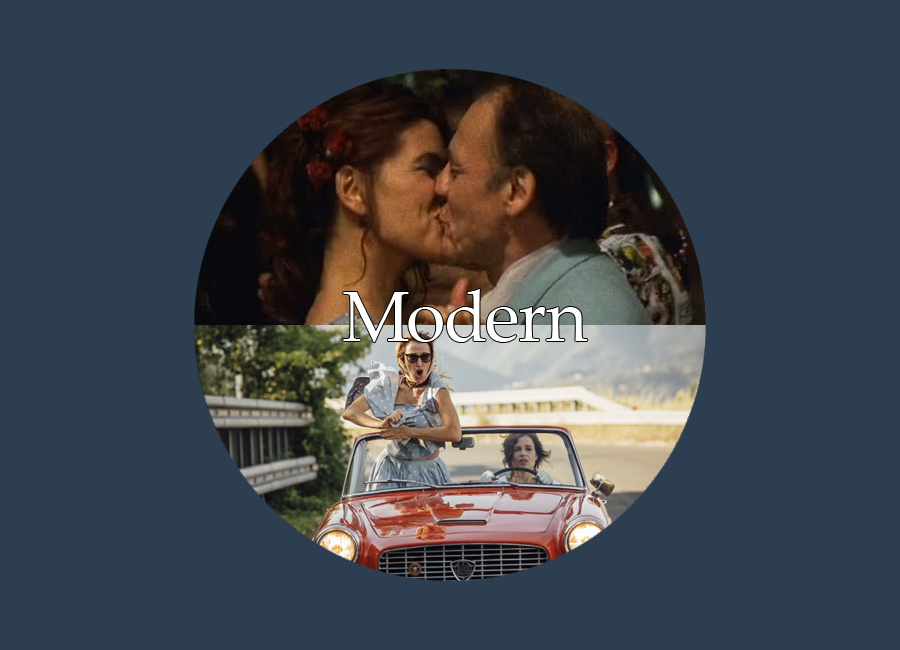
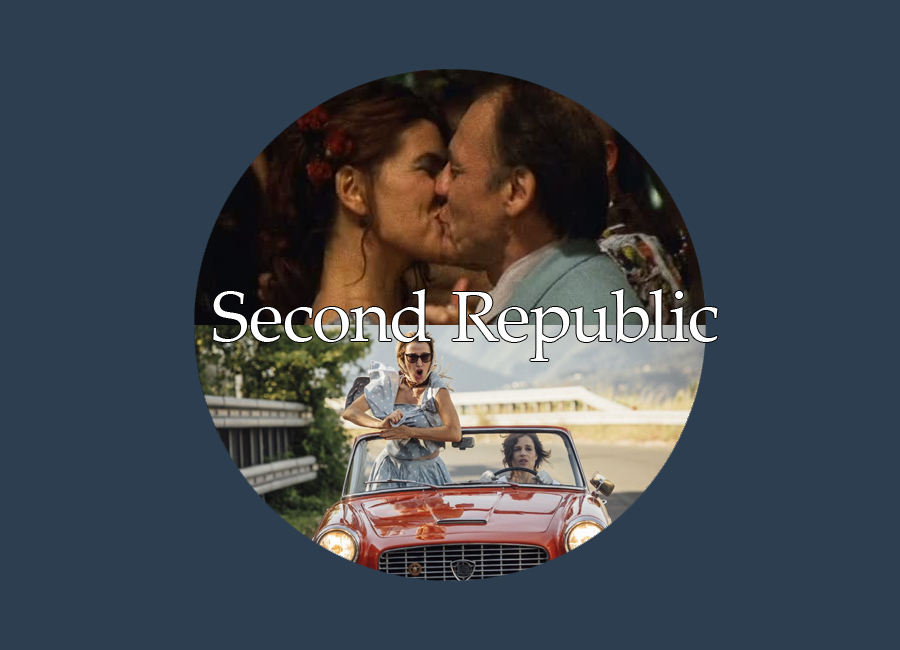
Working on the finals days of my project

Changed region(s): [[0.2178, 0.4308, 0.8089, 0.5538]]

diff --git a/preRepublic.html b/preRepublic.html
@@ -58,10 +58,10 @@
     <!-- Header -->
     <header class="masthead bg-primary text-white text-center">
       <div class="container">
-          <h1 class="text-uppercase mb-0">UNIFICATION OF ITALY (1860) THROUGH FASCISM</h1>
+          <h1 class="text-uppercase mb-0">UNIFICATION OF ITALY (1860) TO FASCISM</h1>
         <img class="img-fluid mb-5 d-block mx-auto" src="img/preRepublic.png" alt="">
         <h2 class="font-weight-light mb-0">This follows the journey into Italy from the unification right up to the middle of the war.</h2>
-        <h2 class="font-weight-light mb-0"></h2>
+        <h3 class="font-weight-light mb-0"></h3>
       </div>
     </header>
         
@@ -85,13 +85,13 @@
           In the late 1940s, much of Italy wanted independence from the surrounding countries such as Austria, France, and Spain. 
           Much of Italy was extremely fragmented after the congress at Vienna in 1815. 
           Specifically, this film focuses on how Sicily becomes a part of Italian unification. Giuseppe Garibaldi was the main character in adding Sicily to the Kingdom of 
-          Sardenia thus making it a part of Italy in 1861. The unification concluded with the additions of Venice and Rome.
+          Sardinia thus making it a part of Italy in 1861. The unification concluded with the additions of Venice and Rome.
           <hr />
           <h3>Ballroom/Waltz</h3>
           Ballroom is one of the most iconic dance styles out there. <em>Brunetta</em> states the scene in the Leopard is considered one of the most grandiose scenes in Italian film and cinema. 
           It immediately immerses the viewer into the time period with both costume and dance. The short clip above shows the ballroom scene at the end of the film in which Angelica 
           dances with the Prince. The ballroom style of dance itself is very elegant, grandiose, and immersive.
-          It, itself, is considered one of the greatest of the social dance types. Thw waltz was considered scandalous in te 19th century before becoming widely accepted and 
+          It, itself, is considered one of the greatest of the social dance types. The waltz was considered scandalous in the 19th century before becoming widely accepted and 
           popular. It was a spirit of both excitement and embraced romance <em>(Powers)</em>.
       </div>
     </section>
@@ -108,8 +108,8 @@
           </div>
           <hr />
           <h3>Historical Context</h3>
-          This film was created in the midst of fascism and the resistence war of Italy. Many factors were going against the stronghold Mussolini had on current Italian society. The Allies, Communists, and Christian Democrats 
-          all had an influence on Italy and hoped for the minimalization of fascist forces on the people. The peopel themselves were resisting the power favoring communism and frankly anything other 
+          This film was created in the midst of fascism and the resistance war of Italy. Many factors were going against the stronghold Mussolini had on current Italian society. The Allies, Communists, and Christian Democrats 
+          all had an influence on Italy and hoped for the minimization of fascist forces on the people. The people themselves were resisting the power favoring communism and frankly anything other 
           than what Mussolini provided (Ginsborg).
       </div>
     </section>
@@ -127,7 +127,7 @@
                 <em>A Special Day</em> is a film that takes place in the middle of the fascist regime. This is a film of both 
                 finding passion and looking at the normalcies around us and challenging ideas around us. The film follows 
                 Antonietta and Gabriele on the day Hitler visits Italy in 1938. Both stay home for different reasons but 
-                bond over their internal defiance for fascist beliefs. Gabirele challenges Antonietta's beliefs that all 
+                bond over their internal defiance for fascist beliefs. Gabriele challenges Antonietta's beliefs that all 
                 she could do was be a housewife and in the end of the film, she decides she wants more than the fascist life 
                 that is expected of her. Originally she had no problems with it, but quickly sees the life she can have by being 
                 with Gabriele who himself was a defiance to fascism because of his sexuality. 
@@ -137,7 +137,7 @@
                 Gabriele has footsteps on the floor to help with the general motions of the dance. The Rumba itself is not native to 
                 Italy. It is native to Cuba and is from the mid 19th century. The origins of the dance come from the people of Cuba wanting 
                 to defy and protest the slavery in the country at the time according to <em>Ingber</em> from the Smithsonian. This in itself 
-                is interesting because of the correlation to this piece of history to the film. Both groups wanted their freedom from the opression
+                is interesting because of the correlation to this piece of history to the film. Both groups wanted their freedom from the oppression
                 they were facing. <em>Lee, Rivera, & Won</em> stated in their school project that the <em>Rumba</em> was often paired with 
                 sexuality and called in the US "the woman's dance." It seems interesting that of all the dances the director could have chosen, 
                 this dance was an interesting choice due to its ties to both sexuality and freedom. 
@@ -153,11 +153,11 @@
               Your browser does not support HTML5 video.
             </video>
         </div>
-            While this film was technically during the First Republic, many aspects of this film relate to neorealistic themes 
+            While this film was technically during the First Republic, many aspects of this film relate to Neorealistic themes 
             found typically during the era right before the republic.
             This film is an iconic piece of Neorealism and of how Italy itself was on the verge of a change. This film specifically 
             represents the change in both women and society itself.
-            <em>Bitter Rice</em> is a film that takes place in Torino during the months were the women would work the rice fields 
+            <em>Bitter Rice</em> is a film that takes place in Northern Italy during the months were the women would work the rice fields 
             right after the war. The film shows the journey of Francesca 
             trying to hide herself from the law that is after her lover, Walter. Along the way she meets Silvana who becomes 
             captivated by Francesca's life of adventure before Walter seduces Silvana 
@@ -165,7 +165,7 @@
             <h3>Boogie-Woogie</h3>
             In <em>Mass Culture and Italian Society from Fascism to the Cold War (2007)</em> by Forgacs and Gundle talks about how the <strong>boogie-woogie</strong> itself shook up old Italian customs.
             While partnering dances were always popular in Italy, there was nothing quite like the <strong>boogie-woogie</strong>, as seen by Silvana in the film and in the video to the left.
-            This was because traditional dancing often was very structured and did not have as much hip shaking which was often considered scandelous. 
+            This was because traditional dancing often was very structured and did not have as much hip shaking which was often considered scandalous. 
             In a way, <em>Bitter Rice</em> embodied this change and showed how women were becoming more independent from Italy's fascist past. This dance itself is iconic to this change and iconic for the
             film. Silvana in this scene embodies both the changes in women and even American influence in Italy. 
             

diff --git a/modern.html b/modern.html
@@ -75,10 +75,11 @@
                   Your browser does not support HTML5 video.
               </video>
           </div>
-                Lorem ipsum dolor sit amet, consectetur adipiscing elit. Donec suscipit orci non nulla pellentesque, gravida ornare arcu scelerisque. Pellentesque facilisis tincidunt dolor, nec imperdiet orci ullamcorper gravida. In hac habitasse platea dictumst. Mauris nisl risus, consectetur eu dolor sit amet, suscipit maximus est. Sed porta auctor laoreet. Sed eget magna eget mi facilisis placerat. Ut pellentesque imperdiet imperdiet. Sed ac odio elit. Nullam ac bibendum ipsum. In iaculis dapibus sem, nec sodales neque ultrices eget. Phasellus gravida mi sed enim vestibulum, eget tristique elit scelerisque. Aenean commodo magna orci, quis efficitur leo facilisis sit amet. Ut a vestibulum orci. Donec pretium enim sit amet quam porta, vitae convallis est mollis.
-                Maecenas ornare, risus ac efficitur scelerisque, nunc ex tempus ante, non commodo diam eros ac neque. Praesent quis tortor fermentum, accumsan mauris eu, volutpat ligula. Maecenas non convallis tortor, et dictum massa. Mauris purus dui, pharetra sed porta ac, hendrerit eu augue. Quisque tellus orci, commodo vel faucibus non, pulvinar non neque. Mauris mollis elit vitae mauris finibus, ac mattis metus rutrum. Mauris eu rhoncus lectus, tincidunt vulputate massa. Integer lacinia lorem id augue tempor, nec tristique urna sollicitudin. Morbi pulvinar, metus a vestibulum rhoncus, turpis leo tristique enim, ut hendrerit justo arcu eget tellus. Suspendisse sed luctus nunc. Pellentesque ullamcorper imperdiet dolor a efficitur. Ut suscipit cursus erat, vitae pretium augue porta a. Fusce id mi sed elit hendrerit vestibulum. Nulla ultricies vehicula varius. Cras ut purus eu magna semper pulvinar. Cras tempor gravida neque, quis porta dui.
-                <h3></h3>
-                Nulla tempor sodales nisi maximus molestie. Quisque eget nisl maximus, hendrerit felis sit amet, vestibulum erat. Quisque pulvinar est vitae ligula ornare, nec suscipit ipsum ullamcorper. Fusce in ullamcorper lorem. Pellentesque porttitor sem eu purus feugiat, condimentum egestas turpis accumsan. Lorem ipsum dolor sit amet, consectetur adipiscing elit. Integer consectetur, neque quis commodo congue, erat ex bibendum nulla, eget imperdiet purus erat vitae libero. Morbi fermentum, odio eu posuere commodo, sem sem tempor justo, ut blandit nulla orci ac quam. In vel lacinia dui, sed consequat ex. Class aptent taciti sociosqu ad litora torquent per conubia nostra, per inceptos himenaeos. In venenatis malesuada ex, sed molestie quam ullamcorper aliquet.    
+                <h3>Historical Context</h3>
+                Italy's second republic started in 1992 and goes up until today. Much of the changes had to do with the people changing and the ideas. People were done with 
+                the corruptions of the last system and were hoping for a system that was more in line with their ideas. Many of the parties were dissolved and new ones were created. 
+                Women were also becoming more independent. This film had many elements of that and showed with Rosa how she was able to live by herself, get a job, and live independently from 
+                her husband with little issue. 
       </div>
     </section>
 
@@ -93,7 +94,7 @@
             </video>
         </div>
         <h3>Punk Dancing</h3>
-        From the 1980s to the early 2000s, Punk music and danced seemed to inflitrate Europe and Italy in a very impactful way. <em>Punk dancing</em> is hard to categorize. It is usually just a person “moshing” and often happens in a group. Often these moshes involve people who jump up 
+        From the 1980s to the early 2000s, Punk music and danced seemed to infiltrate Europe and Italy in a very impactful way. <em>Punk dancing</em> is hard to categorize. It is usually just a person “moshing” and often happens in a group. Often these moshes involve people who jump up 
         and down and ram their shoulders into each other. This is seen in this film seen in the above video clip with Matteo as he is dancing around his room and finishes his dance by ramming into 
         his door. 
       </div>
@@ -109,8 +110,6 @@
               </video>
           </div>
                 Lorem ipsum dolor sit amet, consectetur adipiscing elit. Donec suscipit orci non nulla pellentesque, gravida ornare arcu scelerisque. Pellentesque facilisis tincidunt dolor, nec imperdiet orci ullamcorper gravida. In hac habitasse platea dictumst. Mauris nisl risus, consectetur eu dolor sit amet, suscipit maximus est. Sed porta auctor laoreet. Sed eget magna eget mi facilisis placerat. Ut pellentesque imperdiet imperdiet. Sed ac odio elit. Nullam ac bibendum ipsum. In iaculis dapibus sem, nec sodales neque ultrices eget. Phasellus gravida mi sed enim vestibulum, eget tristique elit scelerisque. Aenean commodo magna orci, quis efficitur leo facilisis sit amet. Ut a vestibulum orci. Donec pretium enim sit amet quam porta, vitae convallis est mollis.
-                Maecenas ornare, risus ac efficitur scelerisque, nunc ex tempus ante, non commodo diam eros ac neque. Praesent quis tortor fermentum, accumsan mauris eu, volutpat ligula. Maecenas non convallis tortor, et dictum massa. Mauris purus dui, pharetra sed porta ac, hendrerit eu augue. Quisque tellus orci, commodo vel faucibus non, pulvinar non neque. Mauris mollis elit vitae mauris finibus, ac mattis metus rutrum. Mauris eu rhoncus lectus, tincidunt vulputate massa. Integer lacinia lorem id augue tempor, nec tristique urna sollicitudin. Morbi pulvinar, metus a vestibulum rhoncus, turpis leo tristique enim, ut hendrerit justo arcu eget tellus. Suspendisse sed luctus nunc. Pellentesque ullamcorper imperdiet dolor a efficitur. Ut suscipit cursus erat, vitae pretium augue porta a. Fusce id mi sed elit hendrerit vestibulum. Nulla ultricies vehicula varius. Cras ut purus eu magna semper pulvinar. Cras tempor gravida neque, quis porta dui.
-                Nulla tempor sodales nisi maximus molestie. Quisque eget nisl maximus, hendrerit felis sit amet, vestibulum erat. Quisque pulvinar est vitae ligula ornare, nec suscipit ipsum ullamcorper. Fusce in ullamcorper lorem. Pellentesque porttitor sem eu purus feugiat, condimentum egestas turpis accumsan. Lorem ipsum dolor sit amet, consectetur adipiscing elit. Integer consectetur, neque quis commodo congue, erat ex bibendum nulla, eget imperdiet purus erat vitae libero. Morbi fermentum, odio eu posuere commodo, sem sem tempor justo, ut blandit nulla orci ac quam. In vel lacinia dui, sed consequat ex. Class aptent taciti sociosqu ad litora torquent per conubia nostra, per inceptos himenaeos. In venenatis malesuada ex, sed molestie quam ullamcorper aliquet.    
       </div>
     </section>
 
@@ -127,7 +126,9 @@
         <h3>Discoteca (Club)</h3>
           This film features a scene from a club that gives us a peak into the electronic dance scene of Italy that is currently captivating many. 
           The punk scene of Italy seemed to flow easily into an electronic club scene that many people enjoyed. The scene in Italy is not as big as London’s electronic scene. 
-          Italy, itself, has a very different type of scene  
+          Italy, itself, has a very different type of scene than most electronic scenes around the world. The Italian electronic scene started in the 1980s known as Italo Disco. 
+          This was due to its very unique style common only in Italy during this time. One can tell this still has some influence on the times. In the scene from the film, this shows 
+          the 70s/80s style seen in modern clubs and how much they are still influenced by this.
       </div>
     </section>
     <section id="next">

diff --git a/firstRepublic.html b/firstRepublic.html
@@ -72,8 +72,7 @@
           During the 50s, the entire world became enchanted by Rock and Roll. Often this style of dance mostly had to do with the music but often included the dance style as well (like the Jitterbug) (Watson). 
           Italy was no exception to this mentality. Though these dances were often deemed controversial because of the swinging hips, youth loved it and could not get enough.
           Elvis seemed to have huge influence on the world not just America. After the war, many Italian singers were influenced by the greats of America and Italy was craving influence of new music. 
-          Many famous Rock and Roll stars even emerged from Italy or had Italian roots (Bensalhia). For example, Adriano Celentano was considered the Elvis of Italy. 
-          He did not merely copy the culture of the US but in a way created his own type of music specific to Italy ().
+          Many famous Rock and Roll stars even emerged from Italy or had Italian roots (Bensalhia). Overall, the influence of America made its way to Italy.
 
       </div>
     </section>
@@ -114,7 +113,9 @@
               Your browser does not support HTML5 video.
             </video>
           </div>
-        This film has many elements involved in it from the mafia to the way communism had swept through and took a strong hold of Italy. In this film, *****Italy itself was under 
+        In this film, *****
+        <h3>Historical Context</h3>
+        This film has many elements involved in it from the mafia to the way communism had swept through and took a strong hold of Italy. Italy itself was under 
         major cultural changes as well with the feminist and workers movements. This can be seen with various aspects of the film from the worker who died at
         Mimi's work and the various interactions with Fiorella. Of course this film had a very comical approach to what was happening.
         <h3>Tango</h3>
